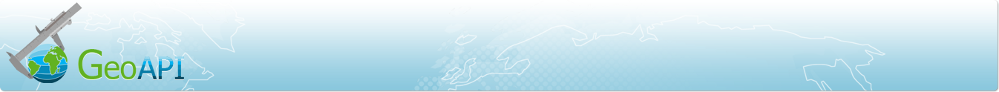
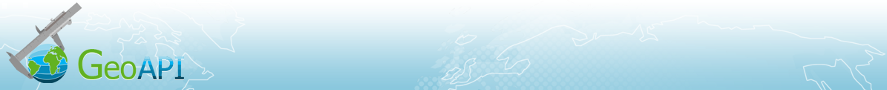
Slight update in site appearance.

diff --git a/src/site/resources/css/site.css b/src/site/resources/css/site.css
@@ -1,6 +1,7 @@
 /* Override styles in maven-base.css */
-#banner img {
-  margin-left: 5px;
+#banner {
+  height: 90px;
+  background: url(../images/banner.png);
 }
 
 /* Override styles in maven-theme.css */
@@ -25,7 +26,6 @@ h4 {
   border: none;
   font-size: medium;
   font-weight: bold;
-  text-decoration: underline;
   padding-left: 0px;
   padding-bottom: 0px;
 }
